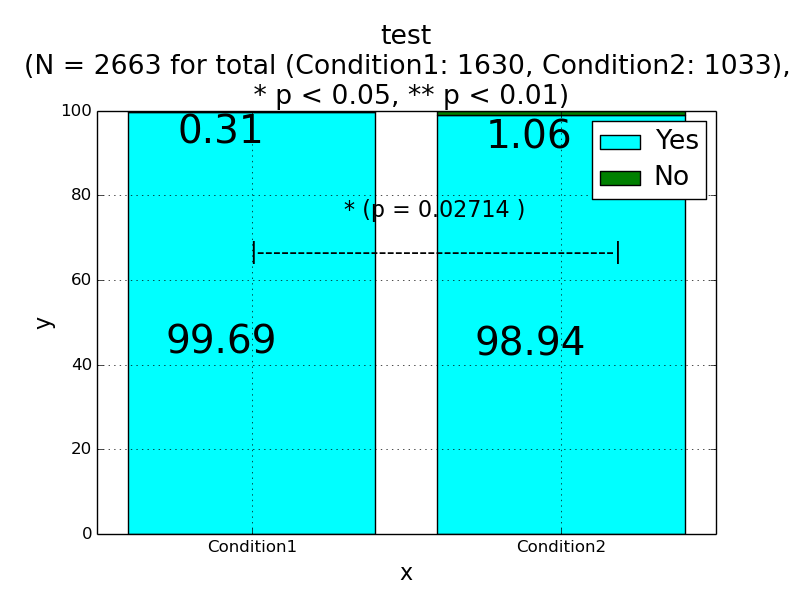
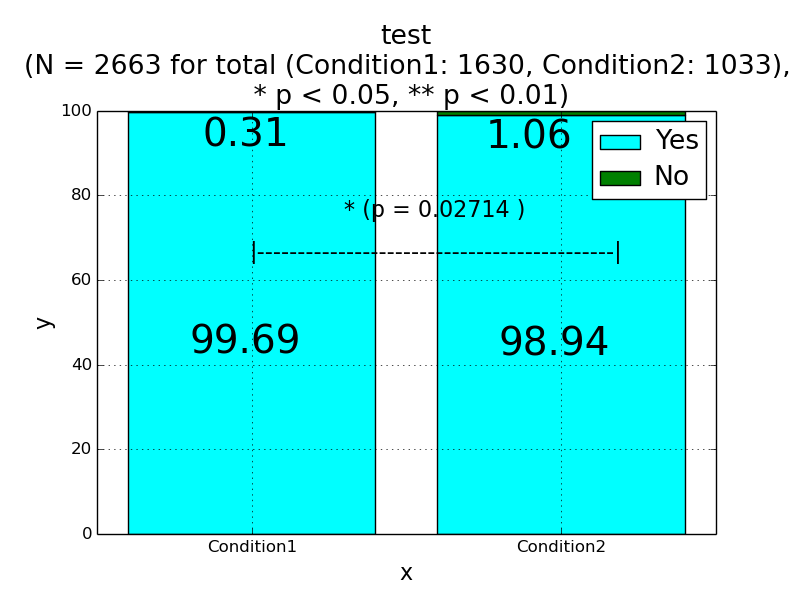
modify display

Changed region(s): [[0.585, 0.5278, 0.7697, 0.5899], [0.1847, 0.5278, 0.3695, 0.5899], [0.2155, 0.1863, 0.3695, 0.2484]]

diff --git a/statistics/src/chi_squared_test_draw_graph.py b/statistics/src/chi_squared_test_draw_graph.py
@@ -59,9 +59,11 @@ class ChiSquaredTestDrawGraph:
         ax = plt.gca()
         for i in range(len(y_data1)):
             # x, y, displaying y value, width position, height position (va="top": bottom of (x, y))
-            plt.text(left[i] - 0.1, y_data1[i] / 2.0, (round (y_data1[i] * 100.0)) * 0.01, ha='center', va='top', fontsize=28)
-        for i in range(len(y_data2)):
-            plt.text(left[i] - 0.1, y_data1[i] - (y_data2[i] / 2.0), (round (y_data2[i] * 100.0)) * 0.01, ha='center', va='top', fontsize=28)
+            plt.text(left[i] - 0.02, y_data1[i] / 2.0, (round (y_data1[i] * 100.0)) * 0.01, ha='center', va='top', fontsize=28)
+
+        plt.text(left[0] - 0.02, y_data1[i] - (y_data2[0] / 2.0), (round (y_data2[0] * 100.0)) * 0.01, ha='center', va='top', fontsize=28)
+        # avoid overlapping with legend
+        plt.text(left[1] - 0.1, y_data1[1] - (y_data2[1] / 2.0), (round (y_data2[1] * 100.0)) * 0.01, ha='center', va='top', fontsize=28)
         """
         add x label in each bar
         """
